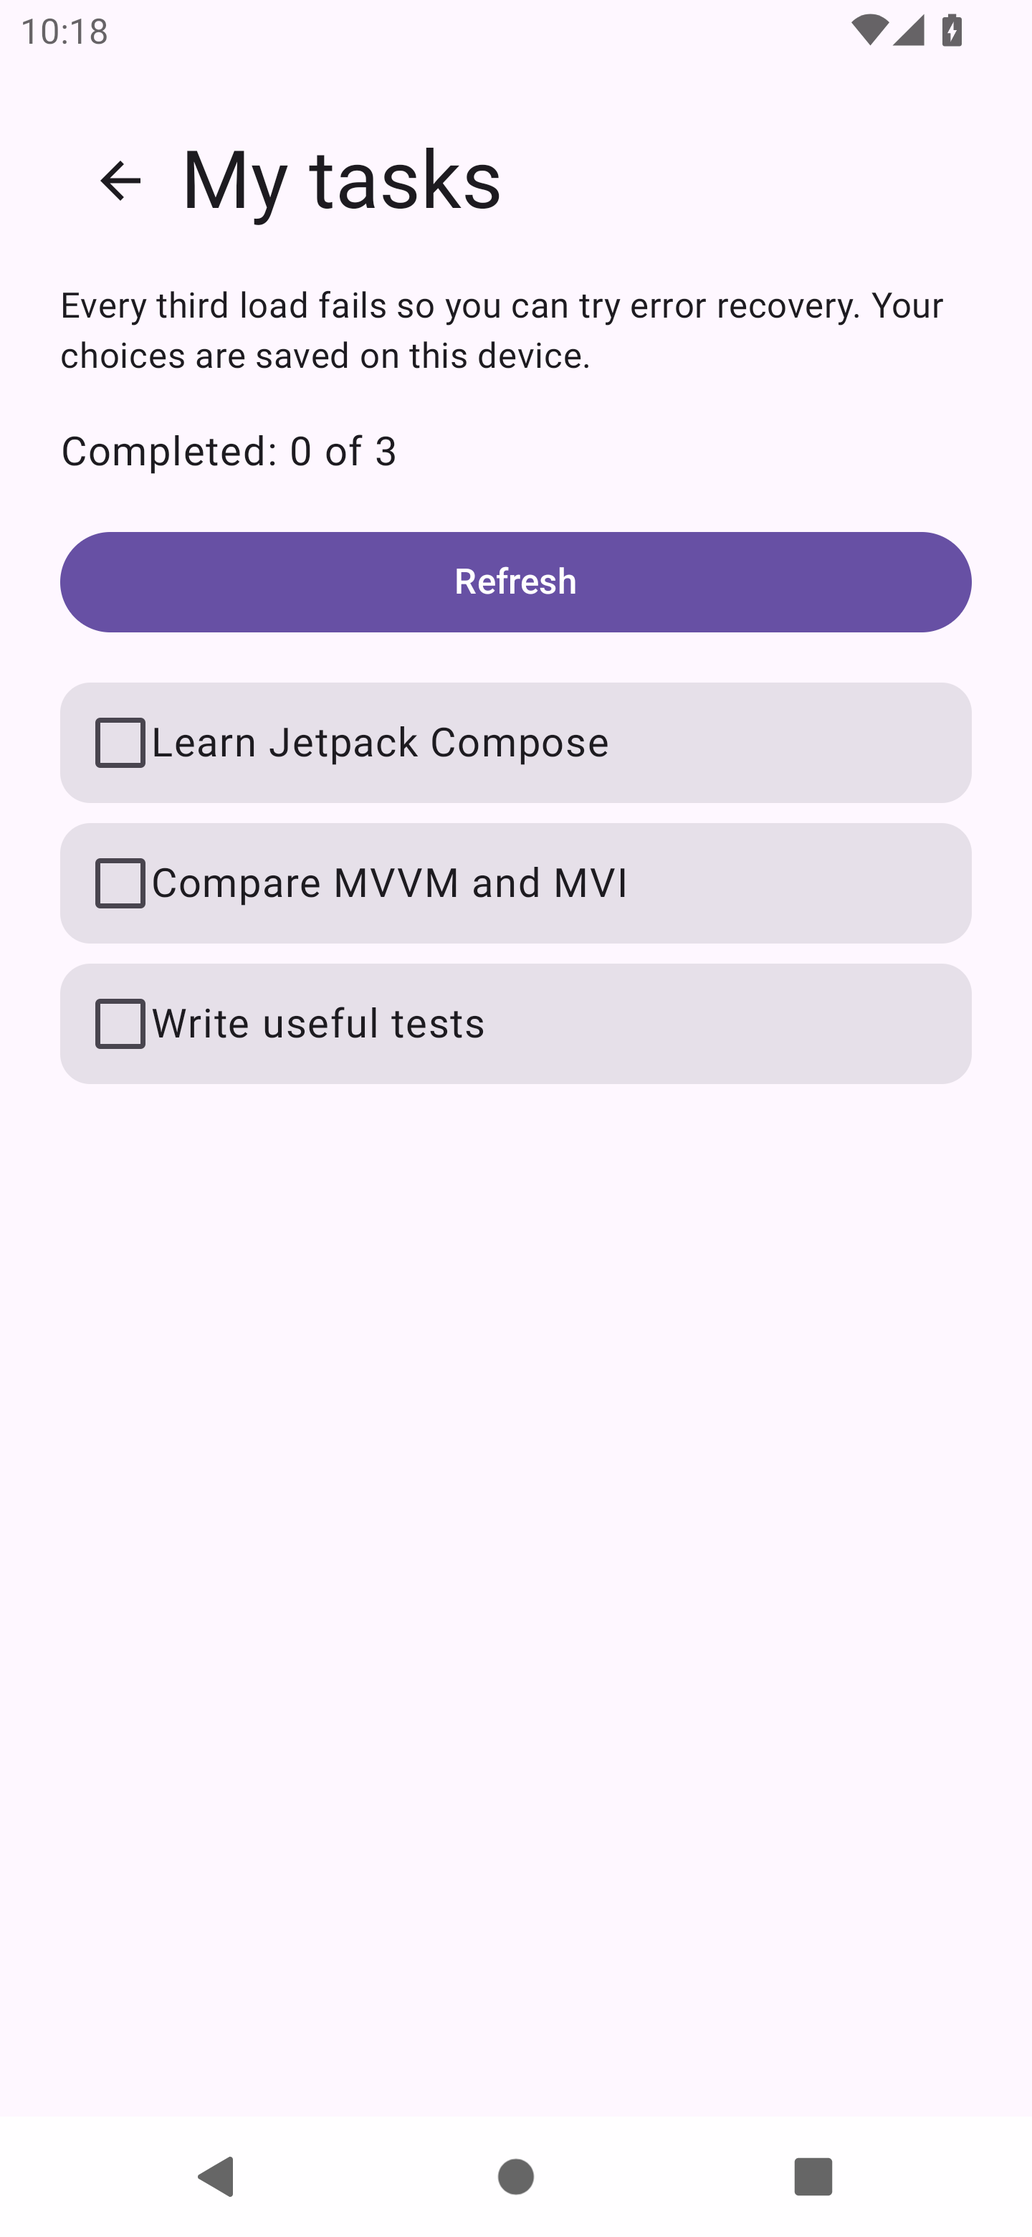
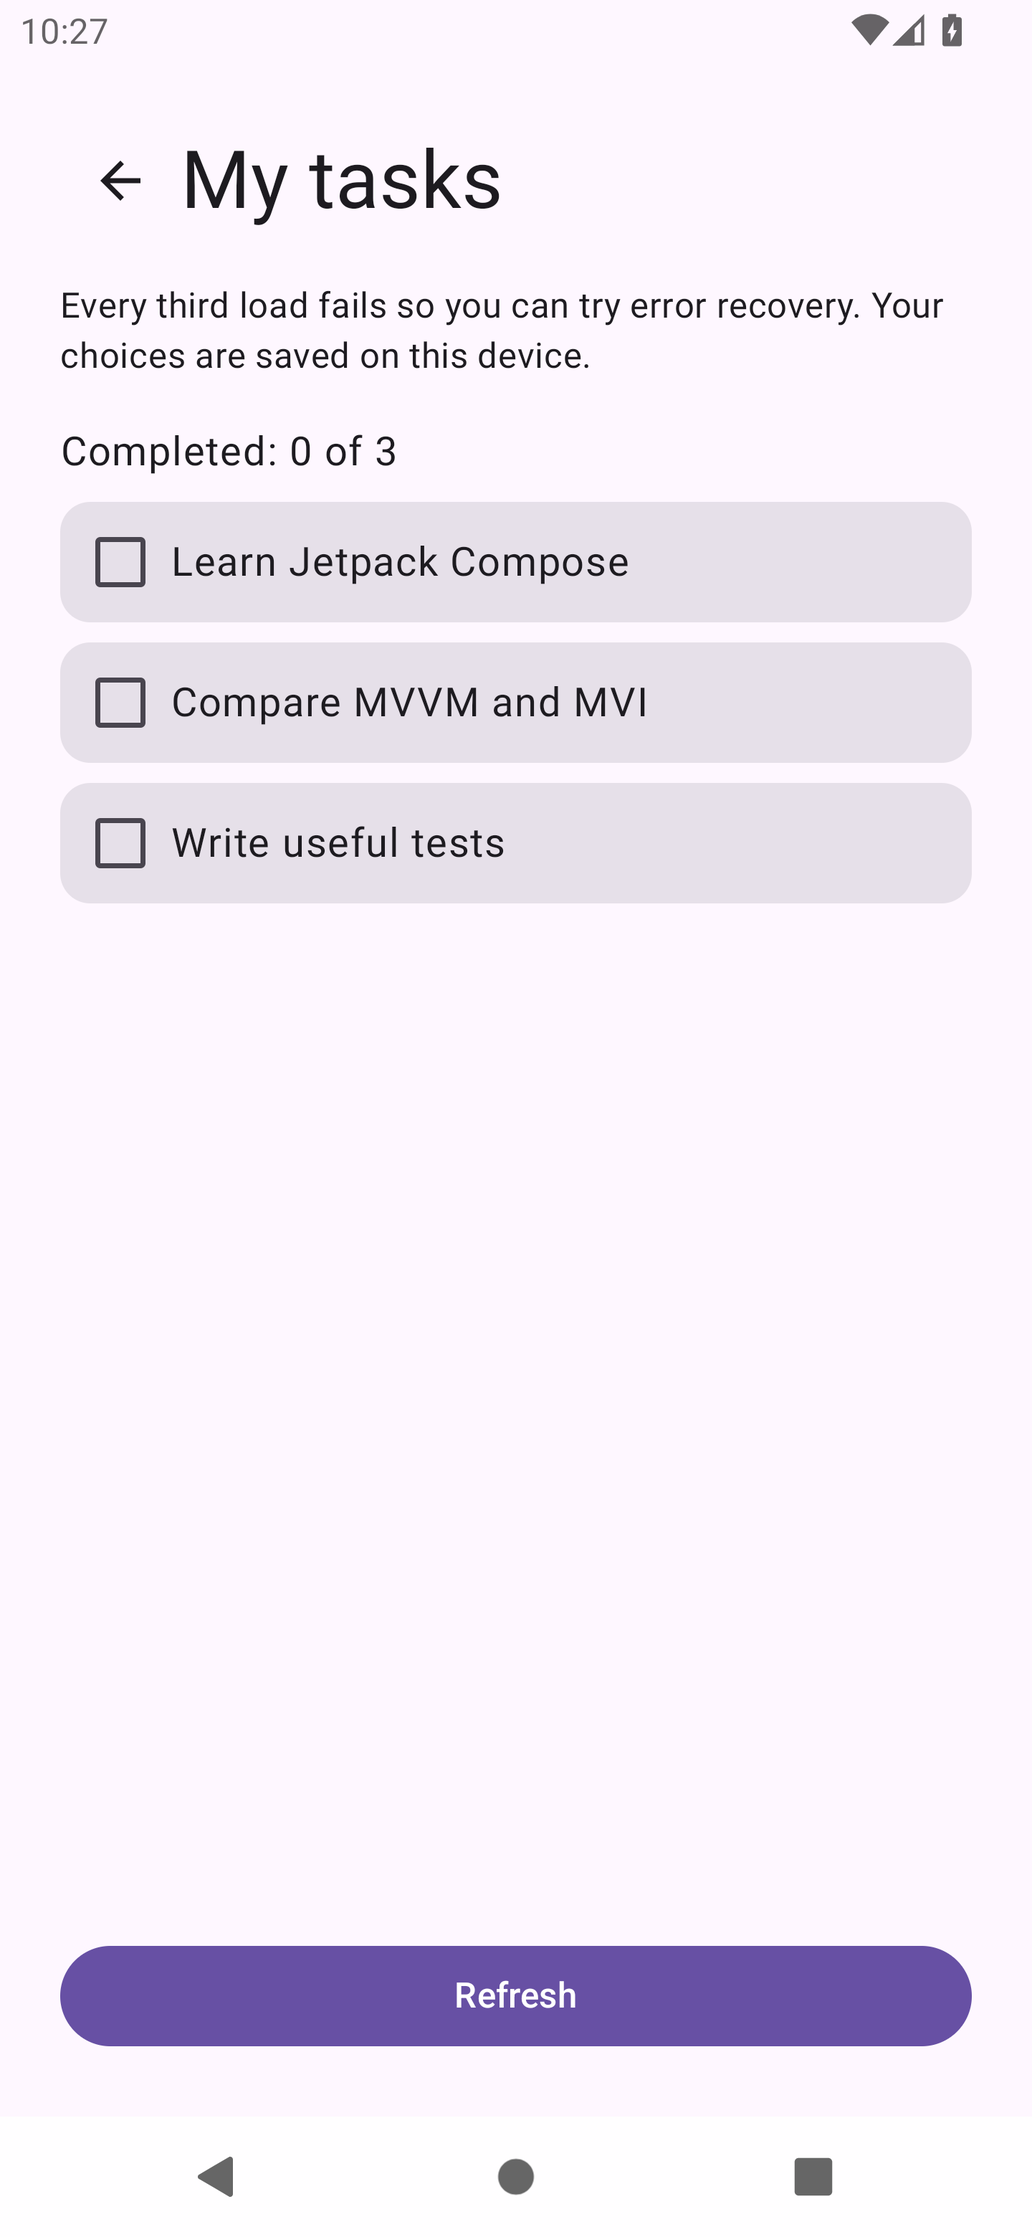
Small UI/UX improvements

diff --git a/app/src/main/java/com/jiahaoliuliu/mvvmvsmvi/presentation/tasks/TasksScreen.kt b/app/src/main/java/com/jiahaoliuliu/mvvmvsmvi/presentation/tasks/TasksScreen.kt
@@ -9,6 +9,7 @@ import androidx.compose.material3.*
 import androidx.compose.runtime.Composable
 import androidx.compose.ui.Alignment
 import androidx.compose.ui.Modifier
+import androidx.compose.ui.platform.testTag
 import androidx.compose.ui.res.stringResource
 import androidx.compose.ui.res.painterResource
 import androidx.compose.ui.semantics.semantics
@@ -27,6 +28,7 @@ fun TasksScreen(
     onToggle: (String) -> Unit,
     onBack: () -> Unit,
 ) {
+    val savingLabel = stringResource(R.string.saving)
     Surface(modifier = Modifier.fillMaxSize()) {
         Column(Modifier.safeDrawingPadding().padding(24.dp), verticalArrangement = Arrangement.spacedBy(16.dp)) {
             Row(verticalAlignment = Alignment.CenterVertically) {
@@ -35,40 +37,82 @@ fun TasksScreen(
                 }
                 Text(stringResource(R.string.tasks_title), style = MaterialTheme.typography.headlineLarge)
             }
-            Text(stringResource(R.string.demo_hint), style = MaterialTheme.typography.bodyMedium)
-            Text(stringResource(R.string.completed_count, state.tasks.count { it.completed }, state.tasks.size))
-            Button(onClick = onRefresh, modifier = Modifier.fillMaxWidth(), enabled = !state.isLoading && !state.isSaving) { Text(stringResource(R.string.refresh)) }
+            Text(
+                stringResource(R.string.demo_hint),
+                modifier = Modifier.testTag("tasks_subtitle"),
+                style = MaterialTheme.typography.bodyMedium,
+            )
             if (state.isLoading) {
-                val loading = stringResource(R.string.loading)
-                CircularProgressIndicator(Modifier.semantics { stateDescription = loading })
-                Text(loading)
-            }
-            if (state.isSaving) Text(stringResource(R.string.saving))
-            if (state.hasSaveError) {
-                Text(stringResource(R.string.save_error), color = MaterialTheme.colorScheme.error)
-            }
-            if (state.hasError) {
-                Text(stringResource(R.string.load_error), color = MaterialTheme.colorScheme.error)
-                Button(onClick = onRefresh, modifier = Modifier.fillMaxWidth()) { Text(stringResource(R.string.retry)) }
-            }
-            LazyColumn(verticalArrangement = Arrangement.spacedBy(8.dp)) {
-                items(state.tasks, key = { it.id }) { task ->
-                    Card {
-                        Row(
-                            Modifier.fillMaxWidth().toggleable(
-                                value = task.completed,
-                                enabled = !state.isLoading && !state.isSaving,
-                                role = Role.Checkbox,
-                                onValueChange = { onToggle(task.id) },
-                            ).padding(12.dp),
-                            verticalAlignment = Alignment.CenterVertically,
-                        ) {
-                            Checkbox(checked = task.completed, onCheckedChange = null, enabled = !state.isLoading && !state.isSaving)
-                            Text(stringResource(task.title.resourceId()), Modifier.weight(1f))
+                Box(
+                    modifier = Modifier.weight(1f).fillMaxWidth().testTag("loading_area"),
+                    contentAlignment = Alignment.Center,
+                ) {
+                    val loading = stringResource(R.string.loading)
+                    Column(
+                        modifier = Modifier.testTag("loading_content"),
+                        horizontalAlignment = Alignment.CenterHorizontally,
+                        verticalArrangement = Arrangement.spacedBy(16.dp),
+                    ) {
+                        CircularProgressIndicator(Modifier.semantics { stateDescription = loading })
+                        Text(loading)
+                    }
+                }
+            } else {
+                LazyColumn(
+                    modifier = Modifier.weight(1f).fillMaxWidth().testTag("tasks_list"),
+                    verticalArrangement = Arrangement.spacedBy(8.dp),
+                ) {
+                    item {
+                        Column(verticalArrangement = Arrangement.spacedBy(16.dp)) {
+                            Text(stringResource(R.string.completed_count, state.tasks.count { it.completed }, state.tasks.size))
+                            if (state.hasSaveError) {
+                                Text(stringResource(R.string.save_error), color = MaterialTheme.colorScheme.error)
+                            }
+                            if (state.hasError) {
+                                Text(stringResource(R.string.load_error), color = MaterialTheme.colorScheme.error)
+                                Button(onClick = onRefresh, modifier = Modifier.fillMaxWidth()) { Text(stringResource(R.string.retry)) }
+                            }
+                        }
+                    }
+                    items(state.tasks, key = { it.id }) { task ->
+                        Card {
+                            Row(
+                                Modifier.fillMaxWidth().toggleable(
+                                    value = task.completed,
+                                    enabled = !state.isLoading && !state.isSaving,
+                                    role = Role.Checkbox,
+                                    onValueChange = { onToggle(task.id) },
+                                ).semantics {
+                                    if (state.isSaving) stateDescription = savingLabel
+                                }.padding(12.dp),
+                                verticalAlignment = Alignment.CenterVertically,
+                            ) {
+                                Checkbox(
+                                    checked = task.completed,
+                                    onCheckedChange = null,
+                                    enabled = !state.isLoading && !state.isSaving,
+                                    colors = if (state.isLoading) CheckboxDefaults.colors() else CheckboxDefaults.colors(
+                                        disabledCheckedColor = MaterialTheme.colorScheme.primary,
+                                        disabledUncheckedColor = MaterialTheme.colorScheme.onSurfaceVariant,
+                                        disabledIndeterminateColor = MaterialTheme.colorScheme.primary,
+                                    ),
+                                )
+                                Spacer(Modifier.width(8.dp))
+                                Text(stringResource(task.title.resourceId()), Modifier.weight(1f))
+                            }
                         }
                     }
                 }
             }
+            Button(
+                onClick = onRefresh,
+                modifier = Modifier.fillMaxWidth(),
+                enabled = !state.isLoading && !state.isSaving,
+                colors = if (state.isLoading) ButtonDefaults.buttonColors() else ButtonDefaults.buttonColors(
+                    disabledContainerColor = MaterialTheme.colorScheme.primary,
+                    disabledContentColor = MaterialTheme.colorScheme.onPrimary,
+                ),
+            ) { Text(stringResource(R.string.refresh)) }
         }
     }
 }

diff --git a/app/src/androidTest/java/com/jiahaoliuliu/mvvmvsmvi/TasksScreenLayoutTest.kt b/app/src/androidTest/java/com/jiahaoliuliu/mvvmvsmvi/TasksScreenLayoutTest.kt
@@ -1,0 +1,92 @@
+package com.jiahaoliuliu.mvvmvsmvi
+
+import androidx.compose.material3.MaterialTheme
+import androidx.compose.runtime.mutableStateOf
+import androidx.compose.ui.semantics.SemanticsProperties
+import androidx.compose.ui.test.*
+import androidx.compose.ui.test.junit4.createComposeRule
+import com.jiahaoliuliu.mvvmvsmvi.domain.entity.Task
+import com.jiahaoliuliu.mvvmvsmvi.domain.entity.TaskTitle
+import com.jiahaoliuliu.mvvmvsmvi.presentation.tasks.TasksScreen
+import com.jiahaoliuliu.mvvmvsmvi.presentation.tasks.TasksState
+import org.junit.Assert.assertEquals
+import org.junit.Assert.assertTrue
+import org.junit.Rule
+import org.junit.Test
+
+class TasksScreenLayoutTest {
+    @get:Rule val compose = createComposeRule()
+
+    @Test fun refreshStaysAtBottomWhileLongListScrolls() {
+        render(100)
+        val before = compose.onNodeWithText("Refresh").assertIsDisplayed().fetchSemanticsNode().boundsInRoot
+        val viewport = compose.onNodeWithTag("tasks_list").fetchSemanticsNode().boundsInRoot
+        assertTrue(before.top >= viewport.bottom)
+        compose.onNodeWithTag("tasks_list").performScrollToIndex(100)
+        val after = compose.onNodeWithText("Refresh").assertIsDisplayed().fetchSemanticsNode().boundsInRoot
+        assertEquals(before, after)
+    }
+
+    @Test fun refreshIsBelowContentEvenWithEmptyList() {
+        render(0)
+        val button = compose.onNodeWithText("Refresh").assertIsDisplayed().fetchSemanticsNode().boundsInRoot
+        val viewport = compose.onNodeWithTag("tasks_list").fetchSemanticsNode().boundsInRoot
+        assertTrue(button.top >= viewport.bottom)
+    }
+
+    @Test fun savingDoesNotShiftTasksOrRefresh() {
+        val state = mutableStateOf(TasksState(tasks = listOf(Task("compose", TaskTitle.COMPOSE))))
+        compose.setContent {
+            MaterialTheme { TasksScreen(state.value, {}, {}, {}) }
+        }
+        val taskBefore = compose.onNodeWithText("Learn Jetpack Compose").fetchSemanticsNode().boundsInRoot
+        val refreshBefore = compose.onNodeWithText("Refresh").fetchSemanticsNode().boundsInRoot
+        compose.runOnIdle { state.value = state.value.copy(isSaving = true) }
+        compose.onNodeWithText("Learn Jetpack Compose").assertIsNotEnabled()
+            .assert(SemanticsMatcher.expectValue(SemanticsProperties.StateDescription, "Saving task"))
+        compose.onNodeWithText("Refresh").assertIsNotEnabled()
+        compose.onNodeWithText("Saving task").assertDoesNotExist()
+        assertEquals(taskBefore, compose.onNodeWithText("Learn Jetpack Compose").fetchSemanticsNode().boundsInRoot)
+        assertEquals(refreshBefore, compose.onNodeWithText("Refresh").fetchSemanticsNode().boundsInRoot)
+        compose.runOnIdle {
+            state.value = state.value.copy(isSaving = false, tasks = state.value.tasks.map { it.copy(completed = true) })
+        }
+        compose.onNodeWithText("Learn Jetpack Compose").assertIsOn().assertIsEnabled()
+        assertEquals(taskBefore, compose.onNodeWithText("Learn Jetpack Compose").fetchSemanticsNode().boundsInRoot)
+    }
+
+    @Test fun loadingIsCenteredBetweenSubtitleAndRefresh() {
+        compose.setContent {
+            MaterialTheme {
+                TasksScreen(
+                    TasksState(tasks = List(100) { Task("task_$it", TaskTitle.COMPOSE) }, isLoading = true),
+                    {}, {}, {},
+                )
+            }
+        }
+        val area = compose.onNodeWithTag("loading_area").fetchSemanticsNode().boundsInRoot
+        val content = compose.onNodeWithTag("loading_content").fetchSemanticsNode().boundsInRoot
+        val subtitle = compose.onNodeWithTag("tasks_subtitle").fetchSemanticsNode().boundsInRoot
+        val refresh = compose.onNodeWithText("Refresh").assertIsDisplayed().assertIsNotEnabled()
+            .fetchSemanticsNode().boundsInRoot
+        assertEquals(area.center.x, content.center.x, 1f)
+        assertEquals(area.center.y, content.center.y, 1f)
+        assertTrue(area.top >= subtitle.bottom)
+        assertTrue(area.bottom <= refresh.top)
+        compose.onNodeWithText("Loading tasks").assertIsDisplayed()
+        compose.onNodeWithTag("tasks_list").assertDoesNotExist()
+    }
+
+    private fun render(count: Int) {
+        compose.setContent {
+            MaterialTheme {
+                TasksScreen(
+                    state = TasksState(tasks = List(count) { Task("task_$it", TaskTitle.COMPOSE) }),
+                    onRefresh = {},
+                    onToggle = {},
+                    onBack = {},
+                )
+            }
+        }
+    }
+}

diff --git a/app/src/androidTest/java/com/jiahaoliuliu/mvvmvsmvi/TasksActivitiesTest.kt b/app/src/androidTest/java/com/jiahaoliuliu/mvvmvsmvi/TasksActivitiesTest.kt
@@ -3,6 +3,7 @@ package com.jiahaoliuliu.mvvmvsmvi
 import androidx.activity.ComponentActivity
 import androidx.test.core.app.ActivityScenario
 import androidx.compose.ui.test.*
+import androidx.compose.ui.semantics.SemanticsProperties
 import androidx.compose.ui.test.junit4.createAndroidComposeRule
 import com.jiahaoliuliu.mvvmvsmvi.presentation.mvi.MviActivity
 import com.jiahaoliuliu.mvvmvsmvi.presentation.mvvm.MvvmActivity
@@ -18,7 +19,9 @@ abstract class TasksActivityContract<A : ComponentActivity>(private val activity
     private fun awaitReady() {
         compose.waitUntil(5_000) {
             compose.onAllNodesWithText("Loading tasks").fetchSemanticsNodes().isEmpty() &&
-                compose.onAllNodesWithText("Saving task").fetchSemanticsNodes().isEmpty()
+                compose.onAllNodesWithText("Refresh").fetchSemanticsNodes().singleOrNull()?.let {
+                    !it.config.contains(SemanticsProperties.Disabled)
+                } == true
         }
     }
 

diff --git a/app/src/androidTest/java/com/jiahaoliuliu/mvvmvsmvi/MainActivityTest.kt b/app/src/androidTest/java/com/jiahaoliuliu/mvvmvsmvi/MainActivityTest.kt
@@ -2,6 +2,7 @@ package com.jiahaoliuliu.mvvmvsmvi
 
 import android.app.Activity
 import androidx.compose.ui.test.*
+import androidx.compose.ui.semantics.SemanticsProperties
 import androidx.test.runner.lifecycle.ActivityLifecycleMonitorRegistry
 import androidx.test.runner.lifecycle.Stage
 import androidx.compose.ui.test.junit4.createAndroidComposeRule
@@ -42,7 +43,9 @@ class MainActivityTest {
         compose.waitUntil(5_000) {
             compose.onAllNodesWithText("Learn Jetpack Compose").fetchSemanticsNodes().isNotEmpty() &&
                 compose.onAllNodesWithText("Loading tasks").fetchSemanticsNodes().isEmpty() &&
-                compose.onAllNodesWithText("Saving task").fetchSemanticsNodes().isEmpty()
+                compose.onAllNodesWithText("Refresh").fetchSemanticsNodes().singleOrNull()?.let {
+                    !it.config.contains(SemanticsProperties.Disabled)
+                } == true
         }
     }
 

diff --git a/README.md b/README.md
@@ -12,9 +12,9 @@ The example is deliberately small enough to read alongside a blog post. No backe
 4. Choose **Open MVVM** or **Open MVI**.
 5. Toggle a task, refresh, and compare the code handling those actions.
 
-Each activity owns a fresh fake repository, retained by its ViewModel across configuration changes. Load 1 succeeds automatically, load 2 succeeds on refresh, and load 3 fails. **Retry** runs load 4 and succeeds. Every third load fails. Failed refreshes retain the existing tasks; successful refreshes reload the catalog with completion restored from DataStore. Task toggles and refresh are disabled while loading or saving. The top back button and System Back return to the chooser.
+Each activity owns a fresh fake repository, retained by its ViewModel across configuration changes. Load 1 succeeds automatically, load 2 succeeds on refresh, and load 3 fails. **Retry** runs load 4 and succeeds. Every third load fails. Failed refreshes retain the existing tasks; successful refreshes reload the catalog with completion restored from DataStore. Task toggles and refresh are disabled while loading or saving. Loading displays the indicator and text centered between the subtitle and Refresh. Refresh is pinned to the bottom above the system navigation area; the task content scrolls independently. The top back button and System Back return to the chooser.
 
-Task completion is stored in **Preferences DataStore**, shared by both architectures. Confirmed choices survive activity reopening and app/process restarts. Only the fake load counter resets when reopening a screen. The repository stores completed task IDs with an atomic read–modify–write transaction. A failed save keeps the previous checkbox state and shows an error; tap the task again to retry. DataStore lives in the data layer; domain contracts and use cases remain plain Kotlin.
+Task completion is stored in **Preferences DataStore**, shared by both architectures. Confirmed choices survive activity reopening and app/process restarts. Only the fake load counter resets when reopening a screen. The repository stores completed task IDs with an atomic read–modify–write transaction. During a save, control colors and list positions stay stable; the saving status is exposed through accessibility semantics instead of inserting a temporary text row. A failed save keeps the previous checkbox state and shows an error; tap the task again to retry. DataStore lives in the data layer; domain contracts and use cases remain plain Kotlin.
 
 ## Screenshots
 
@@ -102,11 +102,11 @@ On macOS, if needed, prefix a command with `JAVA_HOME=$(/usr/libexec/java_home -
 
 Unit tests cover both ViewModels through the same behavior contract: initial loading, toggling and unknown IDs, initial failure/retry, failed refresh with retained tasks, repeated input during loading, and cancellation on clearing the ViewModel. Separate tests exercise the domain use cases, fake failure sequence, save failure/retry, persistence across reopening, atomic concurrent writes, and reducer transitions. Coroutine tests use virtual time, without wall-clock sleeps.
 
-Compose instrumentation tests launch **both real activities**, checking task completion, the deterministic refresh/error/retry sequence, and state/repository retention after activity recreation. Tests also close/reopen each activity and switch between MVVM and MVI to verify saved completion is shared. A test-only rule clears DataStore before activity launch to isolate scenarios. Chooser tests verify the explanations, that each button opens the correct activity, and that the top back button returns to the chooser. They wait for observable UI conditions rather than using sleeps. Test assertions currently use the sample's English labels.
+Compose instrumentation tests launch **both real activities**, checking task completion, the deterministic refresh/error/retry sequence, and state/repository retention after activity recreation. Tests also close/reopen each activity and switch between MVVM and MVI to verify saved completion is shared. A test-only rule clears DataStore before activity launch to isolate scenarios. Chooser tests verify the explanations, that each button opens the correct activity, and that the top back button returns to the chooser. They wait for observable UI conditions rather than using sleeps. Layout tests additionally verify that Refresh stays below the scrolling viewport for an empty list and remains in the same position while a 100-item list scrolls. A save-transition regression test checks that task rows and Refresh do not move during saving and that saving remains accessible without a temporary text row. Test assertions currently use the sample's English labels.
 
 ### Verified locally
 
-On 4 October 2026, debug assembly and test APK assembly succeeded, all **24 unit tests** and **11 instrumentation tests** passed on an API 31 emulator, and `lintDebug` completed with **zero errors**. Lint reported eight advisory warnings: seven about newer dependency versions and one about targeting a newer Android API. Dependencies are pinned; this sample compiles and targets API 36. A device check also saved a task in MVVM, force-stopped the app, and verified that MVI restored the completed task after relaunch. This is local validation, not a GitHub CI result.
+On 4 October 2026, debug assembly and test APK assembly succeeded, all **24 unit tests** and **15 instrumentation tests** passed on an API 31 emulator, and `lintDebug` completed with **zero errors**. Lint reported eight advisory warnings: seven about newer dependency versions and one about targeting a newer Android API. Dependencies are pinned; this sample compiles and targets API 36. A device check also saved a task in MVVM, force-stopped the app, and verified that MVI restored the completed task after relaunch. This is local validation, not a GitHub CI result.
 
 ## Ideas for your post
 
